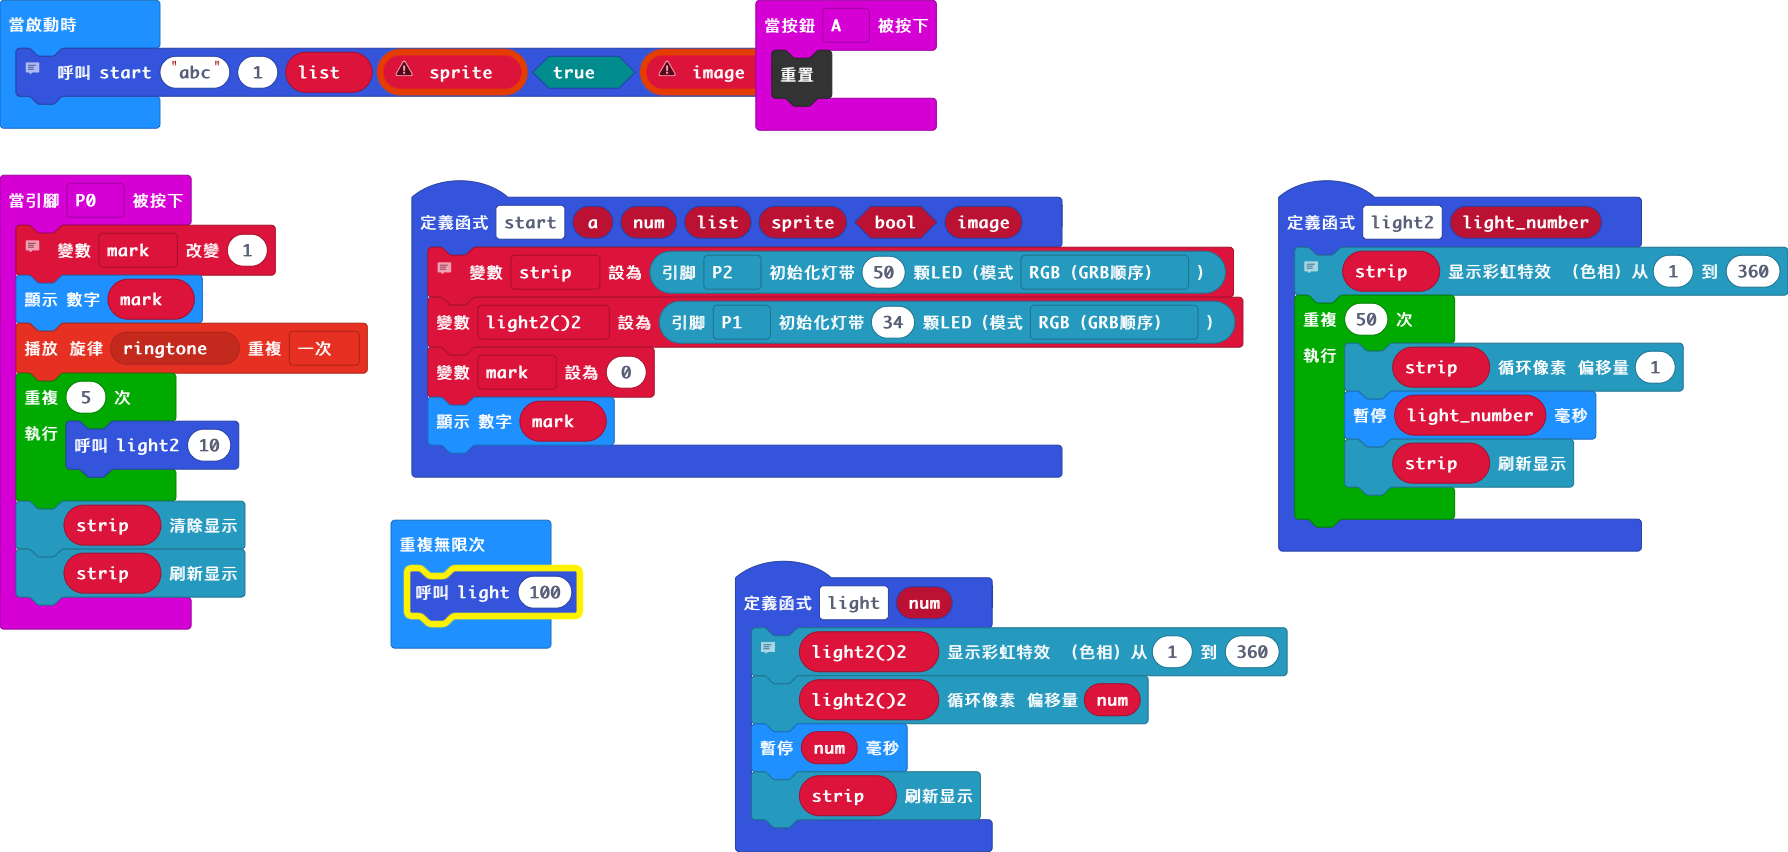
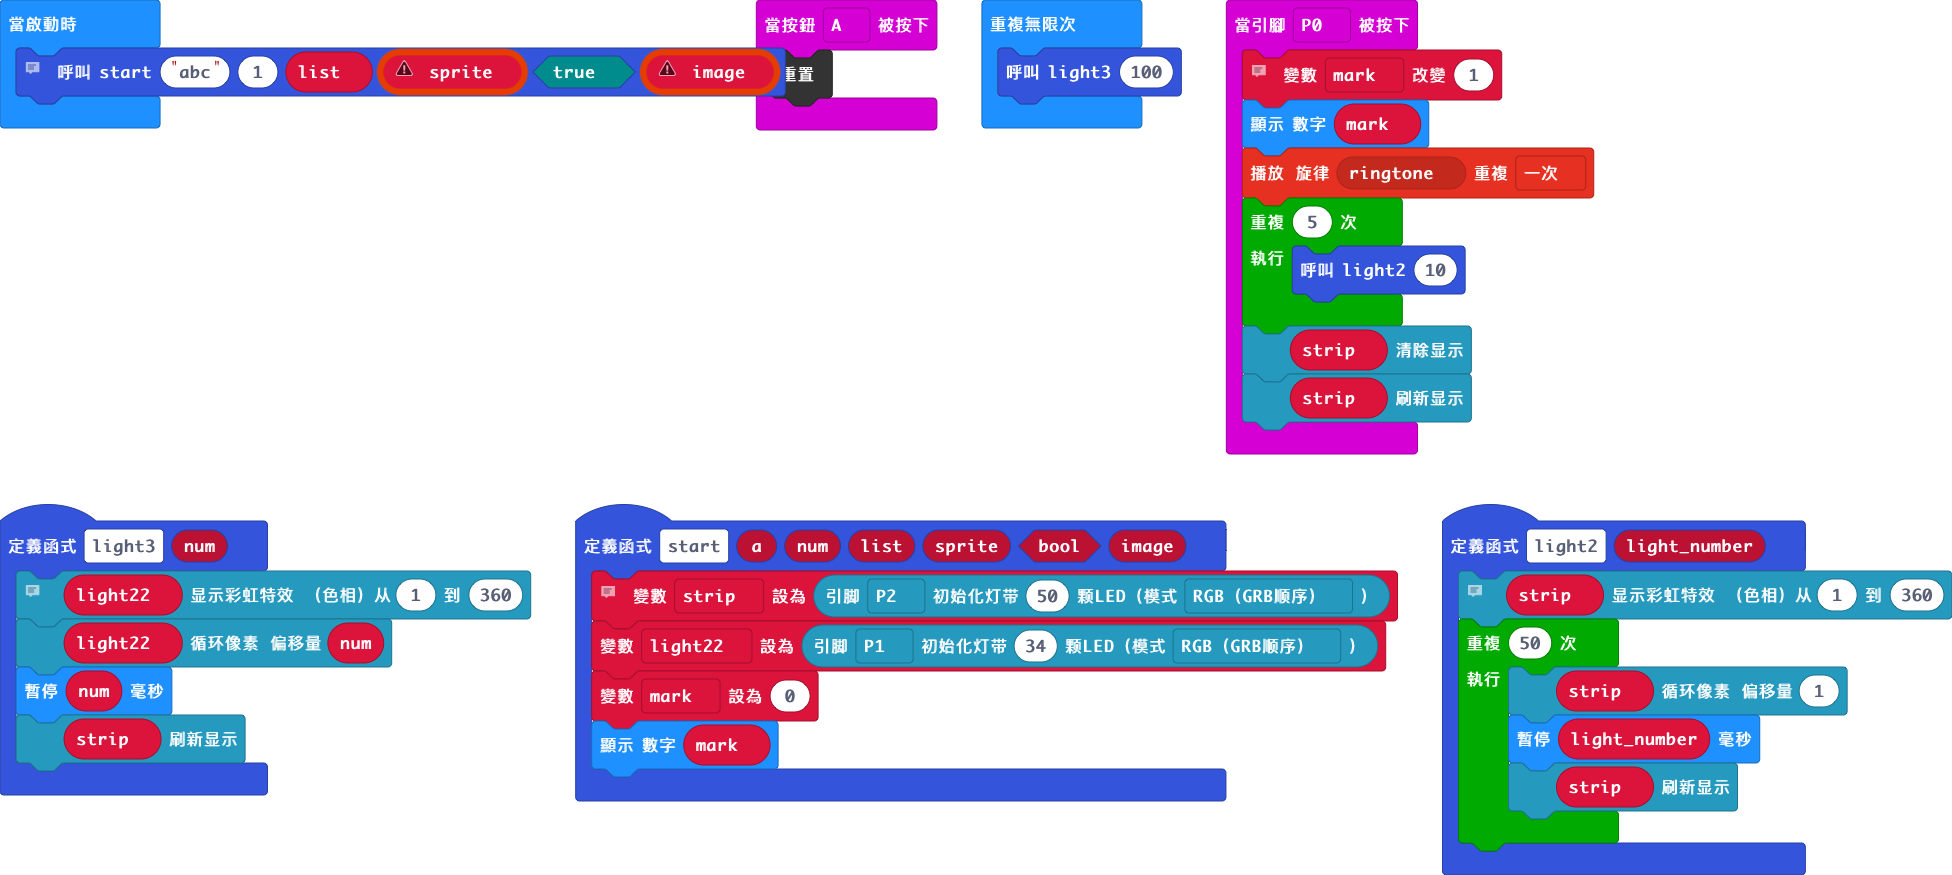
更新 pxt.json, main.blocks, main.py

diff --git a/main.py b/main.py
@@ -1,10 +1,48 @@
+def on_pin_pressed_p0():
+    global mark
+    # p0
+    mark += 1
+    basic.show_number(mark)
+    music.start_melody(music.built_in_melody(Melodies.RINGTONE), MelodyOptions.ONCE)
+    for index in range(5):
+        light2(10)
+    strip.clear()
+    strip.show()
+input.on_pin_pressed(TouchPin.P0, on_pin_pressed_p0)
+
+def on_button_pressed_a():
+    control.reset()
+input.on_button_pressed(Button.A, on_button_pressed_a)
+
+def light3(num: number):
+    # light
+    light22.show_rainbow(1, 360)
+    light22.rotate(num)
+    basic.pause(num)
+    strip.show()
+def start(a: str, num2: number, list2: List[any], sprite: game.LedSprite, bool2: bool, image: Image):
+    global strip, light22, mark
+    # start
+    strip = neopixel.create(DigitalPin.P2, 50, NeoPixelMode.RGB)
+    light22 = neopixel.create(DigitalPin.P1, 34, NeoPixelMode.RGB)
+    mark = 0
+    basic.show_number(mark)
 def light2(light_number: number):
+    # light
     strip.show_rainbow(1, 360)
-    for i in range(50):
-        pass
+    for index2 in range(50):
+        strip.rotate(1)
+        basic.pause(light_number)
+        strip.show()
+light22: neopixel.Strip = None
 strip: neopixel.Strip = None
-strip = neopixel.create(DigitalPin.P0, 50, NeoPixelMode.RGB)
+mark = 0
+image2: Image = None
+sprite2: game.LedSprite = None
+list3: List[number] = []
+# start
+start("abc", 1, list3, sprite2, True, image2)
 
 def on_forever():
-    pass
+    light3(100)
 basic.forever(on_forever)
